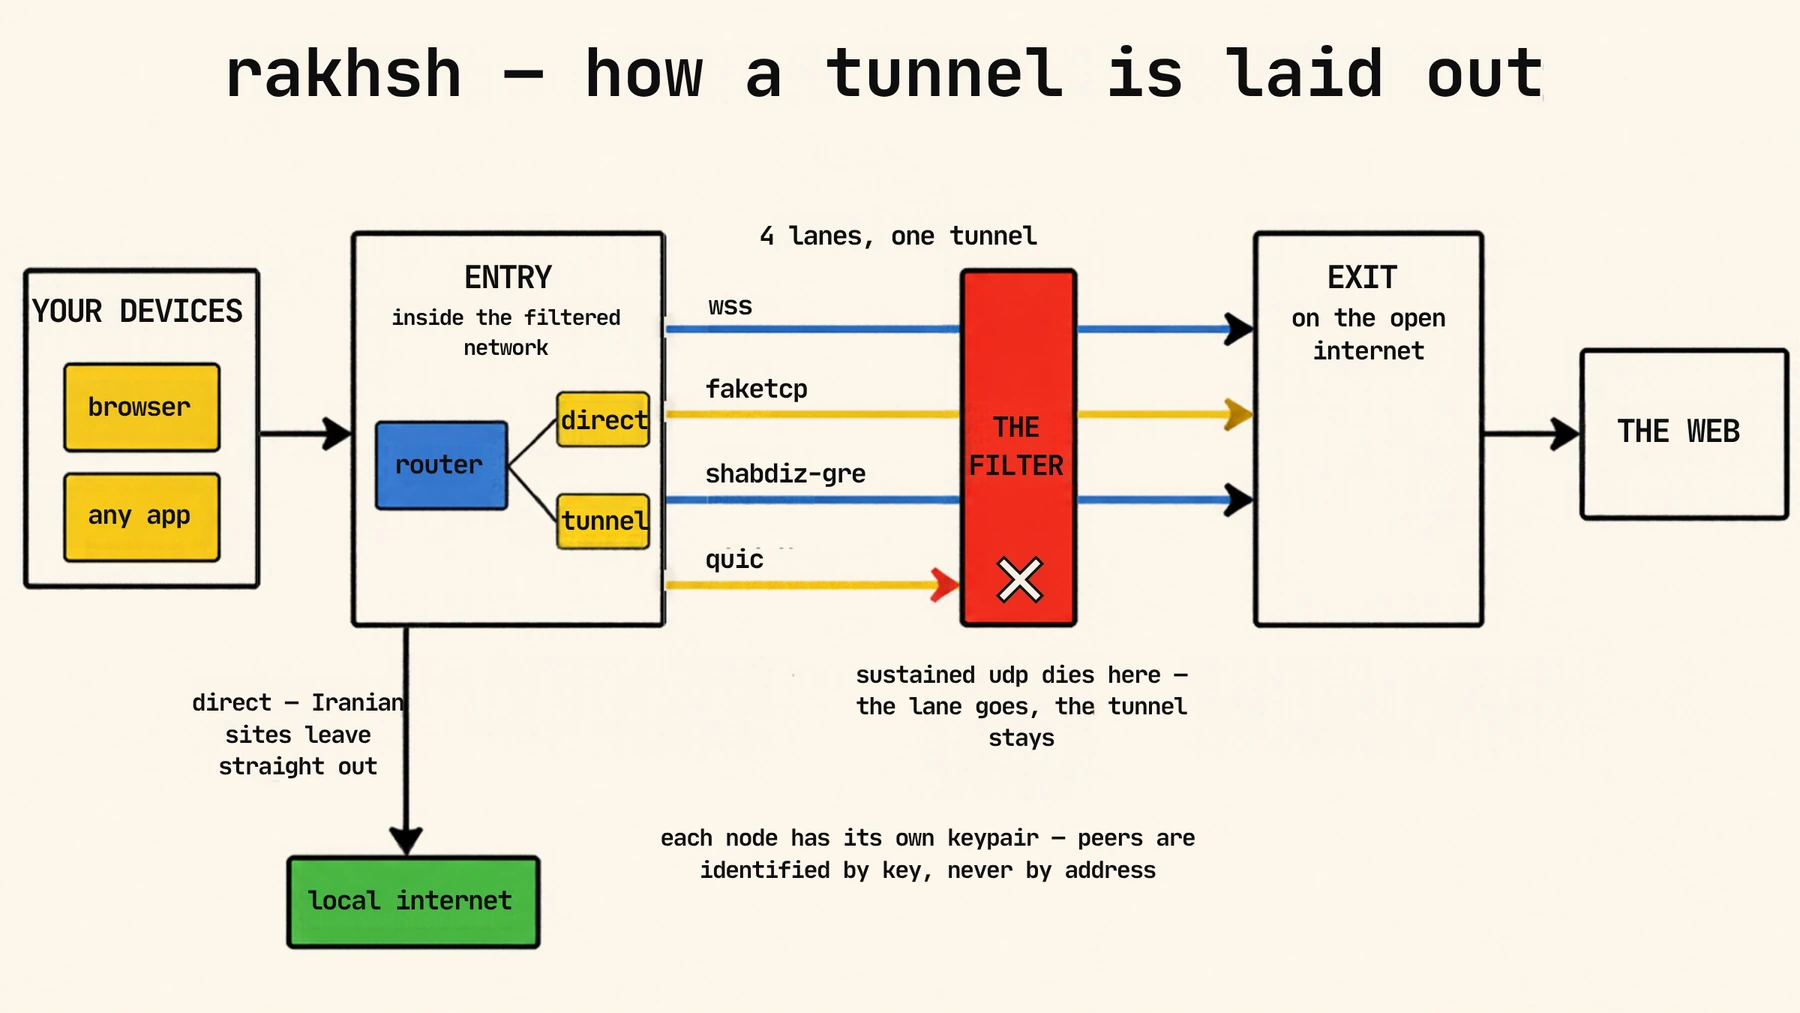
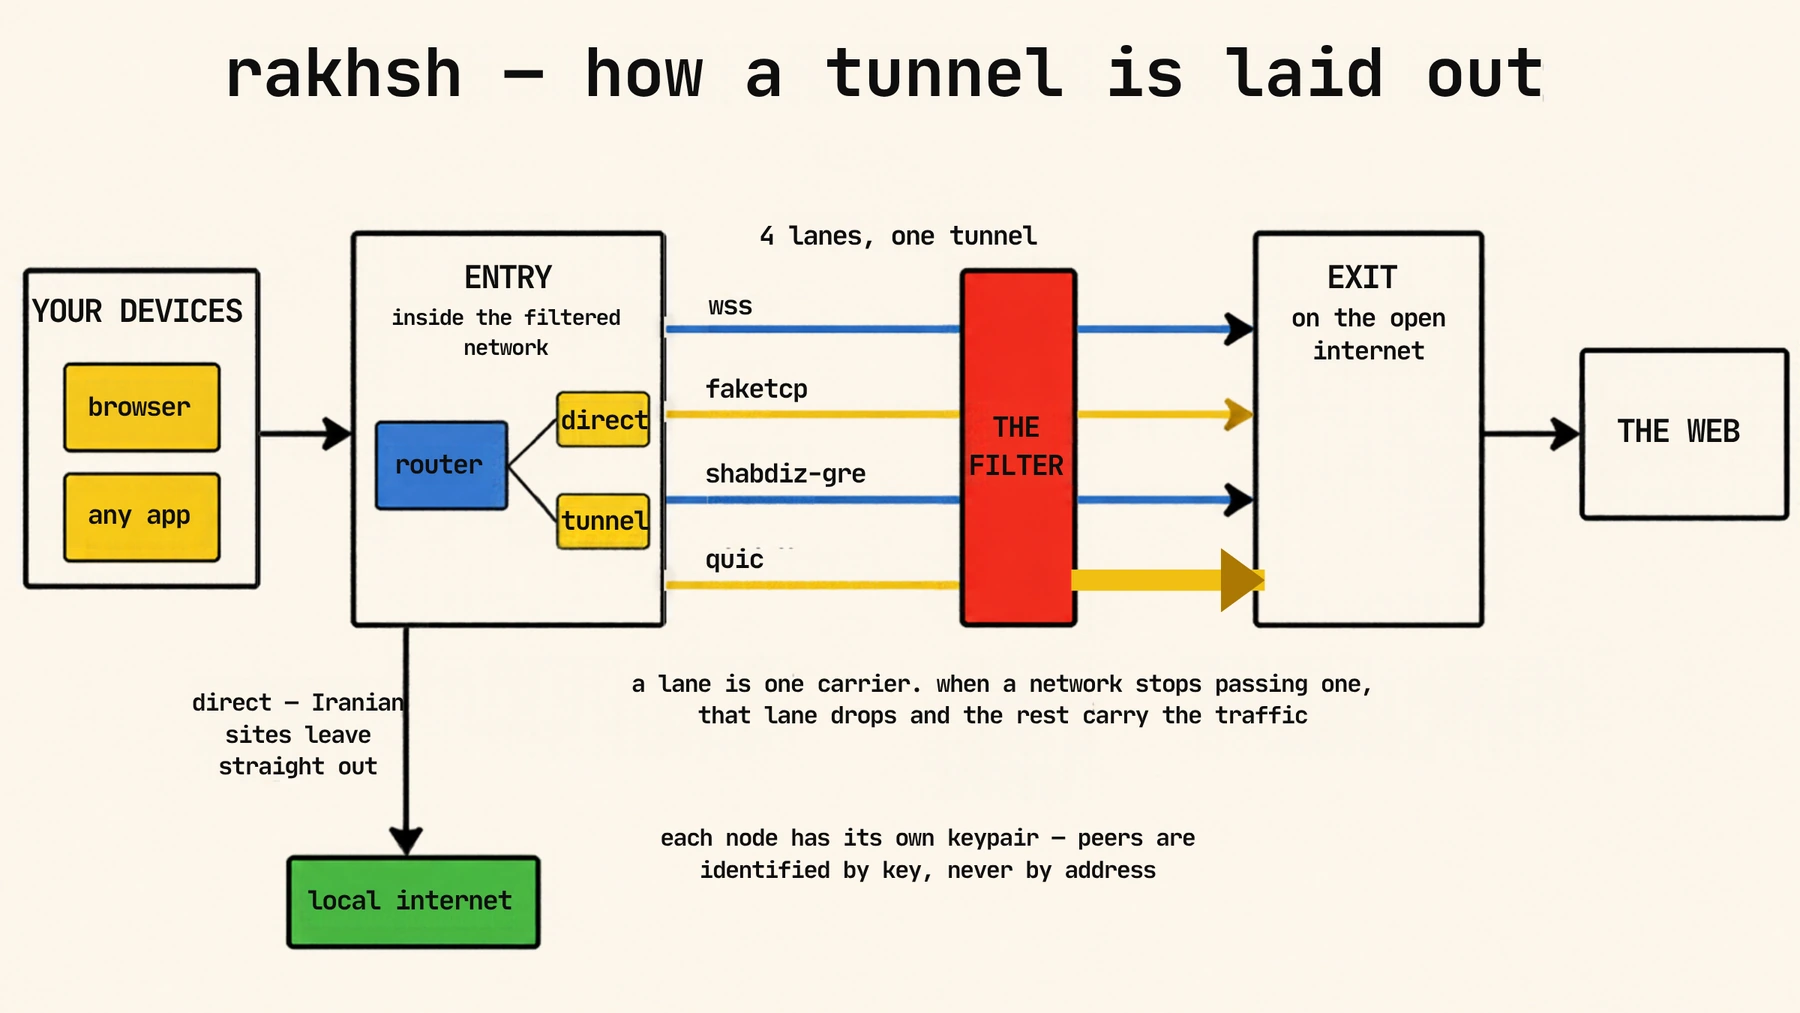
docs: fix the carriers in the topology diagram

Changed region(s): [[0.3733, 0.6426, 0.7467, 0.7345], [0.4978, 0.5508, 0.7156, 0.612]]

diff --git a/README.fa.md b/README.fa.md
@@ -22,7 +22,7 @@
 </div>
 
 <p align="center">
-  <img src="assets/topology.webp" alt="توپولوژی رخش: دستگاهها به ورودیِ داخلِ شبکهی فیلترشده میرسند، چهار لِین روی حاملهای متفاوت از فیلتر رد میشوند و به خروجیِ روی اینترنتِ باز میرسند؛ بستهشدنِ یک حامل یک لِین را میگیرد نه تونل را" width="980">
+  <img src="assets/topology.webp" alt="توپولوژی رخش: دستگاهها به ورودیِ داخلِ شبکهی فیلترشده میرسند، چهار لِین روی حاملهای متفاوت از فیلتر رد میشوند و به خروجیِ روی اینترنتِ باز میرسند؛ هر لِین یک حامل است و از دست رفتنِ یکی، بقیه را سرِ کار نگه میدارد" width="980">
 </p>
 
 <div dir="rtl">

diff --git a/README.md b/README.md
@@ -18,7 +18,7 @@ tunnel, the far end, or a whole fleet of each.
 ## How it is laid out
 
 <p align="center">
-  <img src="assets/topology.webp" alt="rakhsh topology: devices reach an entry inside the filtered network, four lanes on different carriers cross the filter to an exit on the open internet, and a blocked carrier costs one lane rather than the tunnel" width="980">
+  <img src="assets/topology.webp" alt="rakhsh topology: devices reach an entry inside the filtered network, four lanes on different carriers cross the filter to an exit on the open internet, and losing one carrier leaves the rest carrying the traffic" width="980">
 </p>
 
 ## What happens to a request
